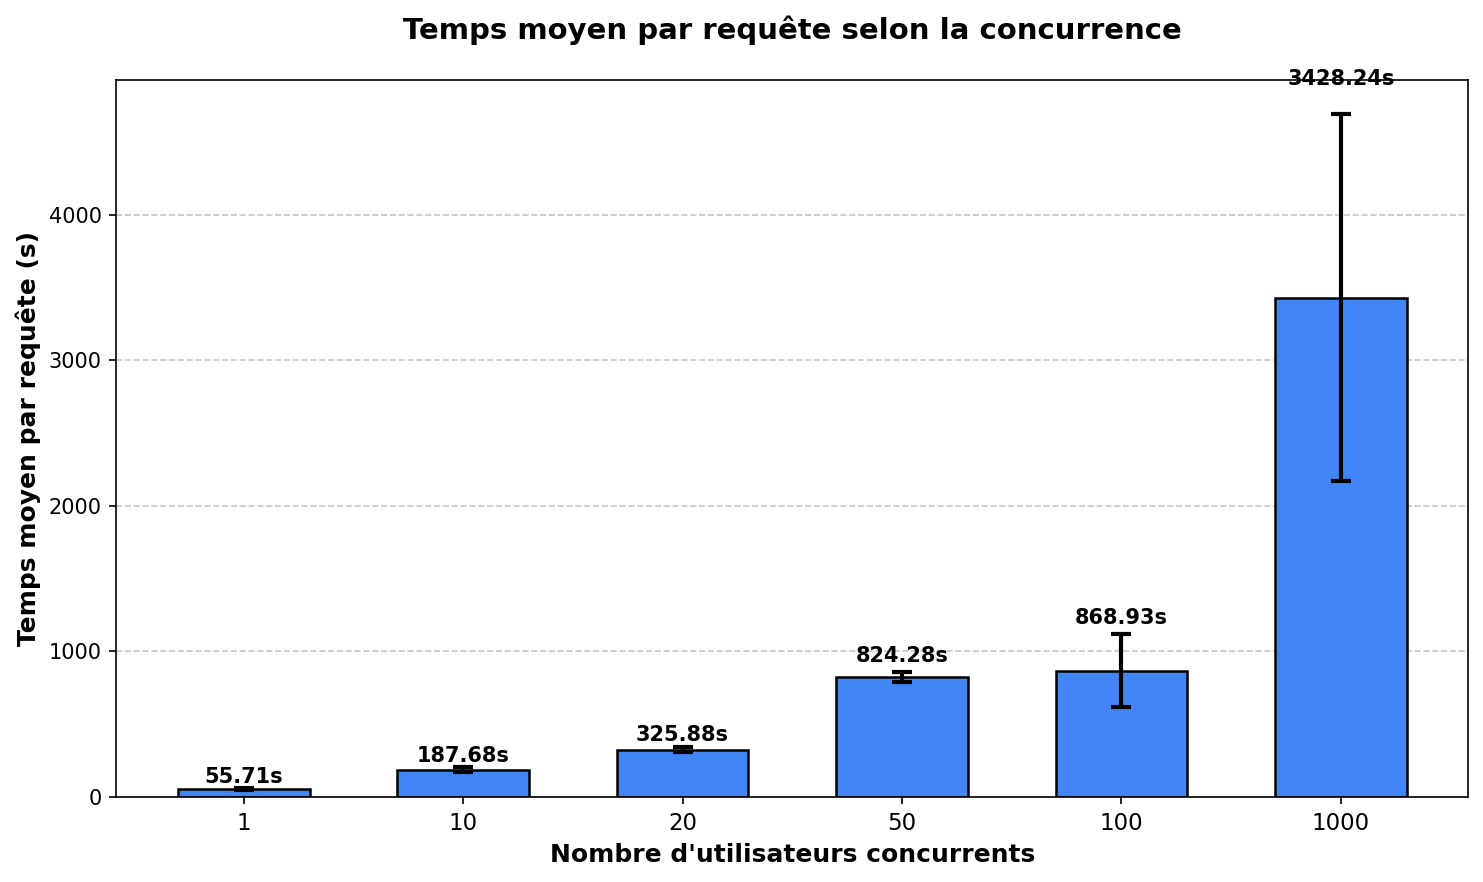
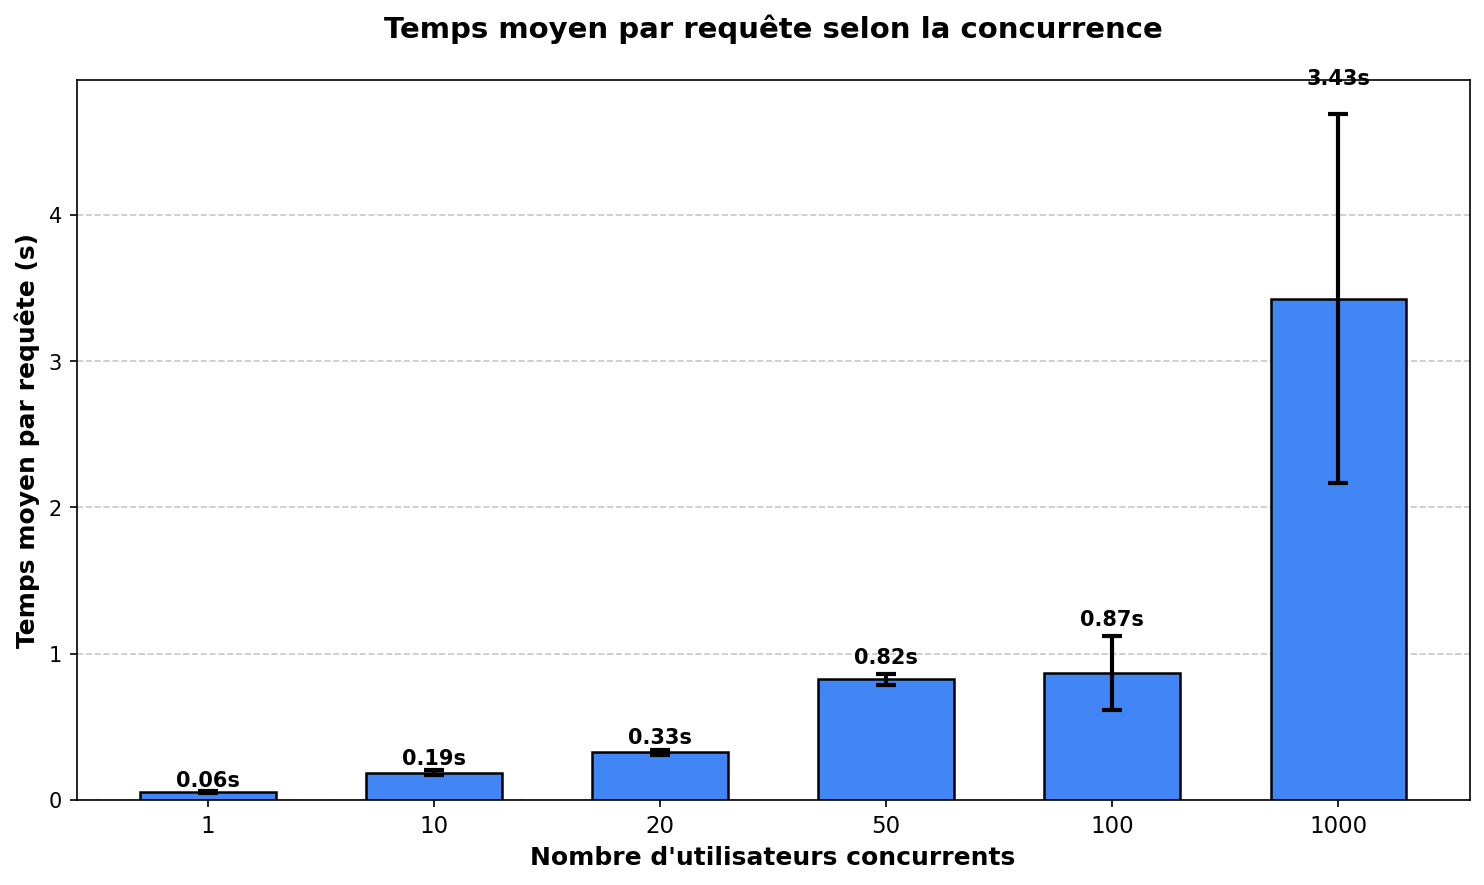
correction affichage en s au lieu de ms

diff --git a/generate_plots.py b/generate_plots.py
@@ -18,10 +18,10 @@ import sys
 
 
 def parse_temps(valeur):
-    """Convertit '123.45ms' en float 123.45"""
+    """Convertit '123.45ms' en float en secondes (0.12345)"""
     if isinstance(valeur, str):
-        return float(valeur.replace('ms', ''))
-    return float(valeur)
+        return float(valeur.replace('ms', '')) / 1000.0  # Conversion ms -> s
+    return float(valeur) / 1000.0
 
 
 def creer_barplot(csv_path: str, output_path: str, titre: str, label_x: str):
